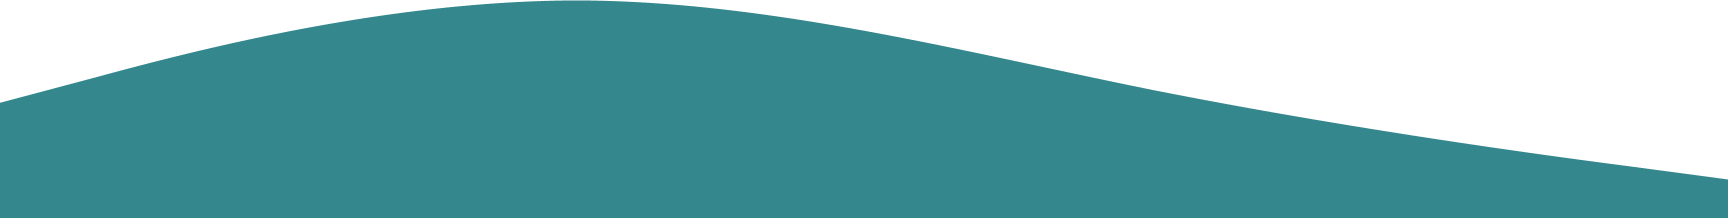
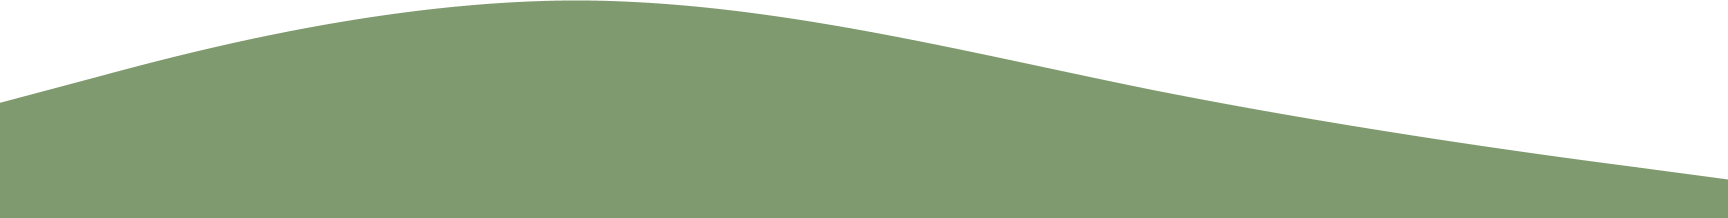
done

diff --git a/styles.css b/styles.css
@@ -1,3 +1,4 @@
+
 @import url('https://fonts.googleapis.com/css2?family=Poppins:ital,wght@0,200;0,300;0,400;0,500;0,600;0,700;0,900;1,700&display=swap');
 
 html {
@@ -41,13 +42,14 @@ header img{
 
 nav a{
     text-decoration: none;
-    color: #34888D;
-    font-weight: 500;
+    color: #AA695F;
+    font-weight: 600;
     transition: 0.4s ease;
 }
 
 nav a:hover {
-    color: #00373A;
+    color: #2c2c2c;
+    /* border-radius: 50px; */
 }
 
 nav ul li {
@@ -66,7 +68,7 @@ nav ul li {
     margin: 5px auto;
     -webkit-transition:all 0.3s ease-in-out;
     transition:all 0.3s ease-in-out;
-    background-color: #34888D;
+    background-color: #AA695F;
     border-radius: 20px;
 }
 
@@ -83,7 +85,7 @@ nav ul li {
 }
 
 #home .home-content h2 {
-    color: #34888D;
+    color: #AA695F;
     font-size: 4.7rem;
     margin: 0;
 }
@@ -97,7 +99,7 @@ nav ul li {
 }
 
 #home .home-content p span {
-    color: #34888D;
+    color: #AA695F;
 }
 
 #home img {
@@ -110,14 +112,14 @@ nav ul li {
 }
 
 #summary h2 {
-    color: #34888D;
+    color: #AA695F;
     font-size: 2.5rem;
     margin: 0;
 }
 
 #summary hr {
     width: 23.4rem;
-    border: 1px solid #34888D;
+    border: 1px solid #AA695F;
     border-radius: 22px;
     margin: 0 auto;
 }
@@ -129,7 +131,7 @@ nav ul li {
 }
 
 #summary p span {
-    color: #34888D;
+    color: #AA695F;
     font-weight: bold;
 }
 
@@ -151,14 +153,14 @@ nav ul li {
 }
 
 #features-app h2 {
-    color: #34888D;
+    color: #AA695F;
     font-size: 2.5rem;
     margin: 0;
 }
 
 #features-app hr {
     width: 16.5rem;
-    border: 1px solid #34888D;
+    border: 1px solid #AA695F;
     border-radius: 22px;
     margin: 0 auto;
 }
@@ -180,7 +182,7 @@ nav ul li {
 }
 
 .features .card h3 {
-    color: #34888D;
+    color: #AA695F;
     font-size: 1.5rem;
     margin: 0;
 }
@@ -193,7 +195,7 @@ nav ul li {
 
 #about-us {
     padding: 2rem 4rem;
-    background-color: #34888D;
+    background-color: #809A6F;
     text-align: center;
     color: #ffffff;
 }
@@ -244,7 +246,7 @@ nav ul li {
 }
 
 #about-us .card h3 {
-    color: #34888D;
+    color: #AA695F;
 }
 
 #about-us .card p {
@@ -259,8 +261,8 @@ nav ul li {
     padding: 10px 20px;
     font-family: 'Poppins', sans-serif;
     font-weight: 600;   
-    border: 1px solid #34888D;
-    background: linear-gradient(262.88deg, #34888D 8.15%, #598AD9 97.79%);
+    border: 1px solid #9A673D;
+    background: linear-gradient(262.88deg, #9A673D 8.15%, #9A673D 8.16%, #A56E41 97.79%);
     border-radius: 70px 9px 9px 9px; 
     cursor: pointer;   
 }
@@ -283,7 +285,7 @@ aside .card ul{
 
 aside .card h3 {
     margin-bottom:6px;
-    color: #34888D;
+    color: #AA695F;
     font-weight: 600;
 }
 
